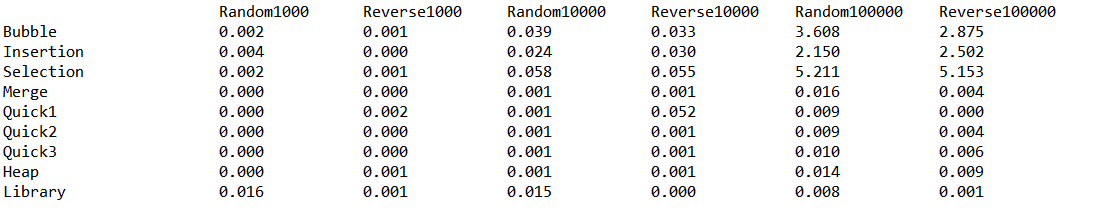
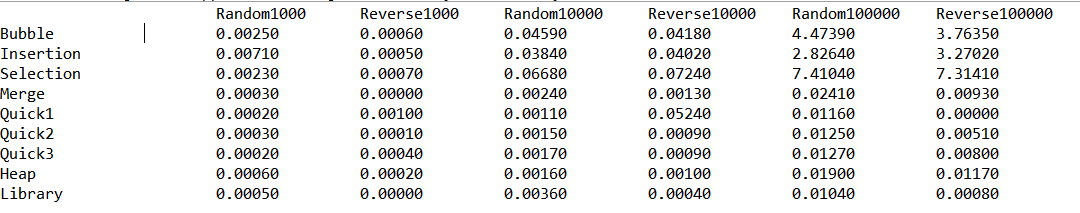
4-1과제

diff --git a/4-1/assign3.java b/4-1/assign3.java
@@ -2,7 +2,7 @@
 
 import java.util.Arrays;
 
-public class assign4{
+public class assign3{
 	static int min=1000;
 	static int max=100000;
 	static int arr_random[]=new int[max];
@@ -16,25 +16,25 @@ public class assign4{
 		System.out.print("Bubble\t");
 	 		for(int i=min;i<=max;i*=10){
 			for(int k=0;k<i;k++) temp[k]=arr_random[k];
-			System.out.print("\t\t"+String.format("%.3f",bubble_sort(temp,i)));
+			System.out.print("\t\t"+String.format("%.5f",bubble_sort(temp,i)));
 			for(int k=max-i,q=0;k<max;k++,q++) temp[q]=arr_reverse[k];
-			System.out.print("\t\t"+String.format("%.3f",bubble_sort(temp,i)));
+			System.out.print("\t\t"+String.format("%.5f",bubble_sort(temp,i)));
 		}
 		System.out.println();
 		System.out.print("Insertion");
 		for(int i=min;i<=max;i*=10){
 			for(int k=0;k<i;k++) temp[k]=arr_random[k];
-			System.out.print("\t\t"+String.format("%.3f",insertion_sort(temp,i)));
+			System.out.print("\t\t"+String.format("%.5f",insertion_sort(temp,i)));
 			for(int k=max-i,q=0;k<max;k++,q++) temp[q]=arr_reverse[k];
-			System.out.print("\t\t"+String.format("%.3f",insertion_sort(temp,i)));
+			System.out.print("\t\t"+String.format("%.5f",insertion_sort(temp,i)));
 		}
 		System.out.println();
 		System.out.print("Selection");
 		for(int i=min;i<=max;i*=10){
 			for(int k=0;k<i;k++) temp[k]=arr_random[k];
-			System.out.print("\t\t"+String.format("%.3f",selection_sort(temp,i)));
+			System.out.print("\t\t"+String.format("%.5f",selection_sort(temp,i)));
 			for(int k=max-i,q=0;k<max;k++,q++) temp[q]=arr_reverse[k];
-			System.out.print("\t\t"+String.format("%.3f",selection_sort(temp,i)));
+			System.out.print("\t\t"+String.format("%.5f",selection_sort(temp,i)));
 		}
 		System.out.println();
 		System.out.print("Merge\t");
@@ -54,8 +54,8 @@ public class assign4{
 				end = System.currentTimeMillis();
 				avg1+=(end-start)/1000.0;
 			}
-			System.out.print("\t\t"+String.format("%.3f",avg/10.0));
-			System.out.print("\t\t"+String.format("%.3f",avg1/10.0));
+			System.out.print("\t\t"+String.format("%.5f",avg/10.0));
+			System.out.print("\t\t"+String.format("%.5f",avg1/10.0));
 		}
 		System.out.println();
 		System.out.print("Quick1\t");
@@ -76,8 +76,8 @@ public class assign4{
 				end = System.currentTimeMillis();
 				avg1+=(end-start)/1000.0;
 			}
-			System.out.print("\t\t"+String.format("%.3f",avg/10.0));
-			System.out.print("\t\t"+String.format("%.3f",avg1/10.0));
+			System.out.print("\t\t"+String.format("%.5f",avg/10.0));
+			System.out.print("\t\t"+String.format("%.5f",avg1/10.0));
 		}
 		System.out.println();
 		System.out.print("Quick2\t");
@@ -97,8 +97,8 @@ public class assign4{
 				end = System.currentTimeMillis();
 				avg1+=(end-start)/1000.0;
 			}
-			System.out.print("\t\t"+String.format("%.3f",avg/10.0));
-			System.out.print("\t\t"+String.format("%.3f",avg1/10.0));
+			System.out.print("\t\t"+String.format("%.5f",avg/10.0));
+			System.out.print("\t\t"+String.format("%.5f",avg1/10.0));
 		}
 		System.out.println();
 		System.out.print("Quick3\t");
@@ -118,8 +118,8 @@ public class assign4{
 				end = System.currentTimeMillis();
 				avg1+=(end-start)/1000.0;
 			}
-			System.out.print("\t\t"+String.format("%.3f",avg/10.0));
-			System.out.print("\t\t"+String.format("%.3f",avg1/10.0));
+			System.out.print("\t\t"+String.format("%.5f",avg/10.0));
+			System.out.print("\t\t"+String.format("%.5f",avg1/10.0));
 		}
 		System.out.println();
 		System.out.print("Heap\t");
@@ -139,8 +139,8 @@ public class assign4{
 				end = System.currentTimeMillis();
 				avg1+=(end-start)/1000.0;
 			}
-			System.out.print("\t\t"+String.format("%.3f",avg/10.0));
-			System.out.print("\t\t"+String.format("%.3f",avg1/10.0));
+			System.out.print("\t\t"+String.format("%.5f",avg/10.0));
+			System.out.print("\t\t"+String.format("%.5f",avg1/10.0));
 			}
 		System.out.println();
 		System.out.print("Library\t");
@@ -148,20 +148,20 @@ public class assign4{
 		{
 			double avg=0.0,avg1=0.0;
 			for(int j=0;j<10;j++)
-			{
-				for(int k=0;k<i;k++) temp[k]=arr_random[k];
+			{int temp1[]=new int [i];
+				for(int k=0;k<i;k++) temp1[k]=arr_random[k];
 				long start = System.currentTimeMillis();
-				Arrays.sort(temp);
+				Arrays.sort(temp1);
 				long end = System.currentTimeMillis();
 				avg+=(end-start)/1000.0;
-				for(int k=max-i,q=0;k<max;k++,q++) temp[q]=arr_reverse[k];
+				for(int k=max-i,q=0;k<max;k++,q++) temp1[q]=arr_reverse[k];
 				start = System.currentTimeMillis();
-				Arrays.sort(temp);
+				Arrays.sort(temp1);
 				end = System.currentTimeMillis();
 				avg1+=(end-start)/1000.0;
 			}
-			System.out.print("\t\t"+String.format("%.3f",avg/10.0));
-			System.out.print("\t\t"+String.format("%.3f",avg1/10.0));
+			System.out.print("\t\t"+String.format("%.5f",avg/10.0));
+			System.out.print("\t\t"+String.format("%.5f",avg1/10.0));
 			}
 	}
 	static void random(int a, int[] arr)
